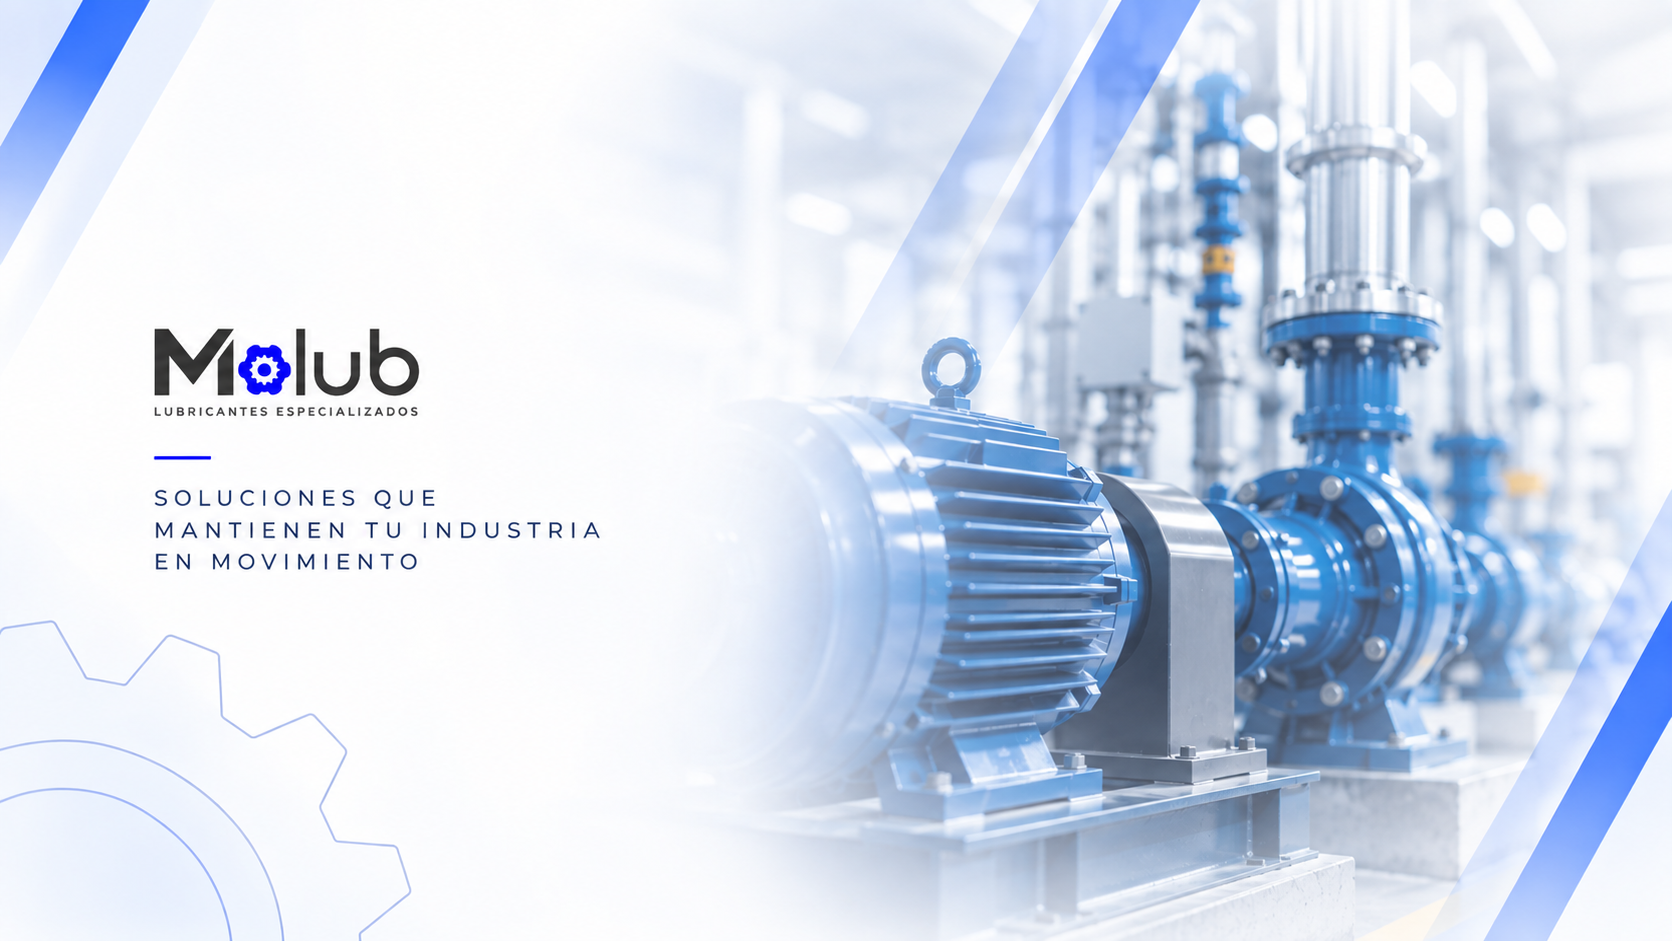
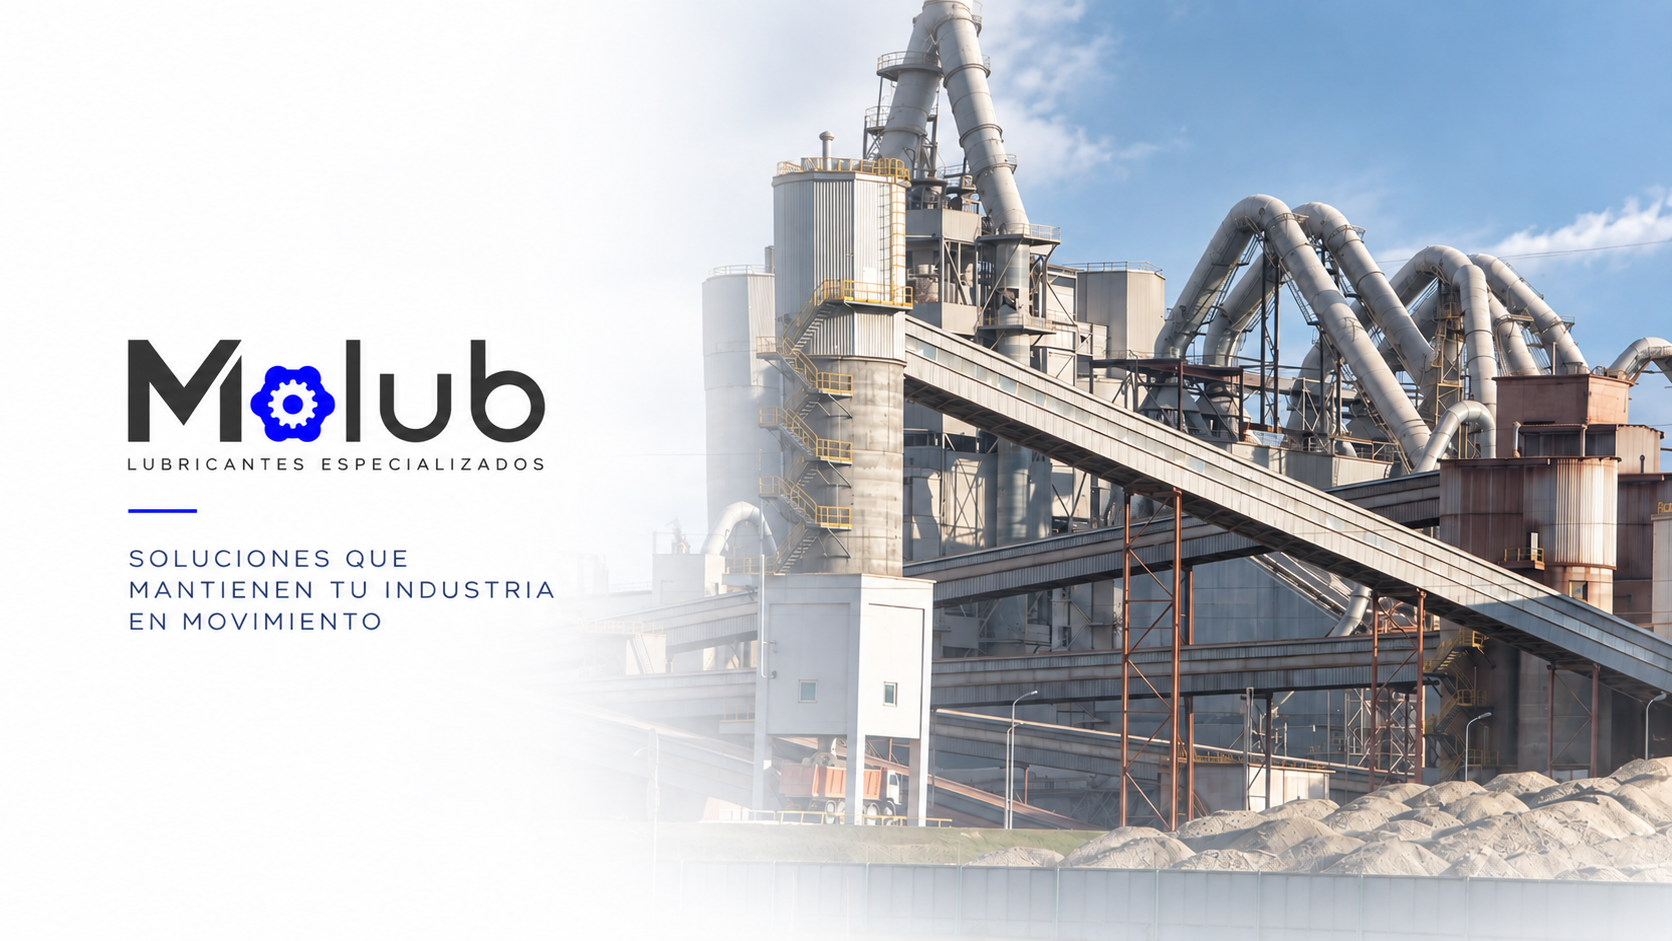
Corregir fuga de permisos y renovar portada del login
- BUG DE SEGURIDAD: una cuenta real sin perfil vinculado en Supabase
  se quedaba con el rol "Supervisor" por default y el selector de rol
  seguia habilitado, permitiendo entrar (o auto-asignarse) el panel
  de supervisor sin serlo. Ahora toda cuenta autenticada sin perfil
  se fuerza a Tecnico y el selector de rol/empresa queda bloqueado
  igual que una sesion normal vinculada.
- Login: nueva foto de fondo (planta de cemento) y se reemplaza el
  logotipo completo de MOLUB por solo el engranaje azul girando
  (mismo que ya usa la barra superior), para no repetir el logotipo
  que ya viene en la imagen de fondo.

diff --git a/index.html b/index.html
@@ -4,7 +4,7 @@
   <meta charset="utf-8">
   <meta name="viewport" content="width=device-width, initial-scale=1">
   <title>Sistema de Gestión de Lubricación - MOLUB</title>
-  <link rel="stylesheet" href="./styles.css?v=paso61-centrar-login">
+  <link rel="stylesheet" href="./styles.css?v=paso62-fondo-fabrica-engranaje">
 </head>
 <body>
   <script>if (/[?&]carta=/.test(location.search)) document.documentElement.classList.add("cargando-carta");</script>
@@ -41,7 +41,7 @@
 
   <div id="acceso-gate" class="acceso-gate hidden">
     <div class="acceso-gate-box">
-      <img class="acceso-gate-logo" src="./assets/logo-molub.png" alt="MOLUB">
+      <img class="acceso-gate-logo" src="./assets/gear-blue.png" alt="MOLUB">
       <p class="eyebrow">Sistema de Gestión de Lubricación</p>
       <h1>Inicia sesión para acceder a la plataforma</h1>
       <p id="gate-error" class="gate-error hidden"></p>
@@ -220,6 +220,6 @@
   <script src="./config.js?v=paso49-lubricantes-completo"></script>
   <script src="https://cdn.jsdelivr.net/npm/@supabase/supabase-js@2"></script>
   <script src="https://cdn.jsdelivr.net/npm/qrcodejs@1.0.0/qrcode.min.js"></script>
-<script src="./app.js?v=paso56-color-grasa-grande"></script>
+<script src="./app.js?v=paso62-fondo-fabrica-engranaje"></script>
 </body>
 </html>

diff --git a/styles.css b/styles.css
@@ -1,10 +1,10 @@
 .qr-loading{display:none}
-.acceso-gate{position:fixed;inset:0;z-index:980;background:url(./assets/login-bg.png?v=4) left center/cover no-repeat,#f4f6fb;padding:48px 16px;overflow-y:auto;display:flex;flex-direction:column;justify-content:safe center}
+.acceso-gate{position:fixed;inset:0;z-index:980;background:url(./assets/login-bg.png?v=5) left center/cover no-repeat,#f4f6fb;padding:48px 16px;overflow-y:auto;display:flex;flex-direction:column;justify-content:safe center}
 @media(min-width:1000px){.acceso-gate{background-size:auto}}
 .acceso-gate.hidden{display:none}
 body.gate-activo .sidebar,body.gate-activo .mobile-menu-toggle,body.gate-activo .app{display:none!important}
 .acceso-gate-box{background:#fff;border-radius:22px;padding:40px 38px;max-width:440px;width:100%;margin:0 auto;border:1px solid var(--line);box-shadow:0 24px 60px rgba(7,17,46,.10);text-align:center}
-.acceso-gate-logo{height:56px;object-fit:contain;margin-bottom:16px}
+.acceso-gate-logo{height:52px;width:52px;object-fit:contain;margin-bottom:16px;animation:spin 8s linear infinite}
 .acceso-gate-box h1{font-size:20px;margin:2px 0 20px;color:var(--ink)}
 .acceso-gate-box .eyebrow{text-align:center}
 .acceso-gate-section{text-align:left;margin-bottom:8px}

diff --git a/app.js b/app.js
@@ -276,7 +276,7 @@ function authDisplayName() {
 }
 
 function syncAuthLockedControls() {
-  const locked = isAuthMode();
+  const locked = Boolean(state.authUser);
   if ($("role-select")) $("role-select").disabled = locked;
   if ($("empresa-select")) $("empresa-select").disabled = locked;
 }
@@ -346,6 +346,12 @@ async function applyAuthSession(session, reload = false) {
     state.selectedUserId = isSupervisorMode() ? "" : state.authPerfil.id;
     if ($("role-select")) $("role-select").value = state.sessionRole;
     if ($("empresa-select") && state.empresaId) $("empresa-select").value = state.empresaId;
+  } else if (state.authUser) {
+    // Cuenta real sin perfil vinculado en Supabase: nunca debe caer en
+    // Supervisor por default, aunque esa fuera la ultima seleccion.
+    state.sessionRole = "TECNICO_MEC";
+    state.selectedUserId = "";
+    if ($("role-select")) $("role-select").value = state.sessionRole;
   }
 
   renderAuthPanel();
